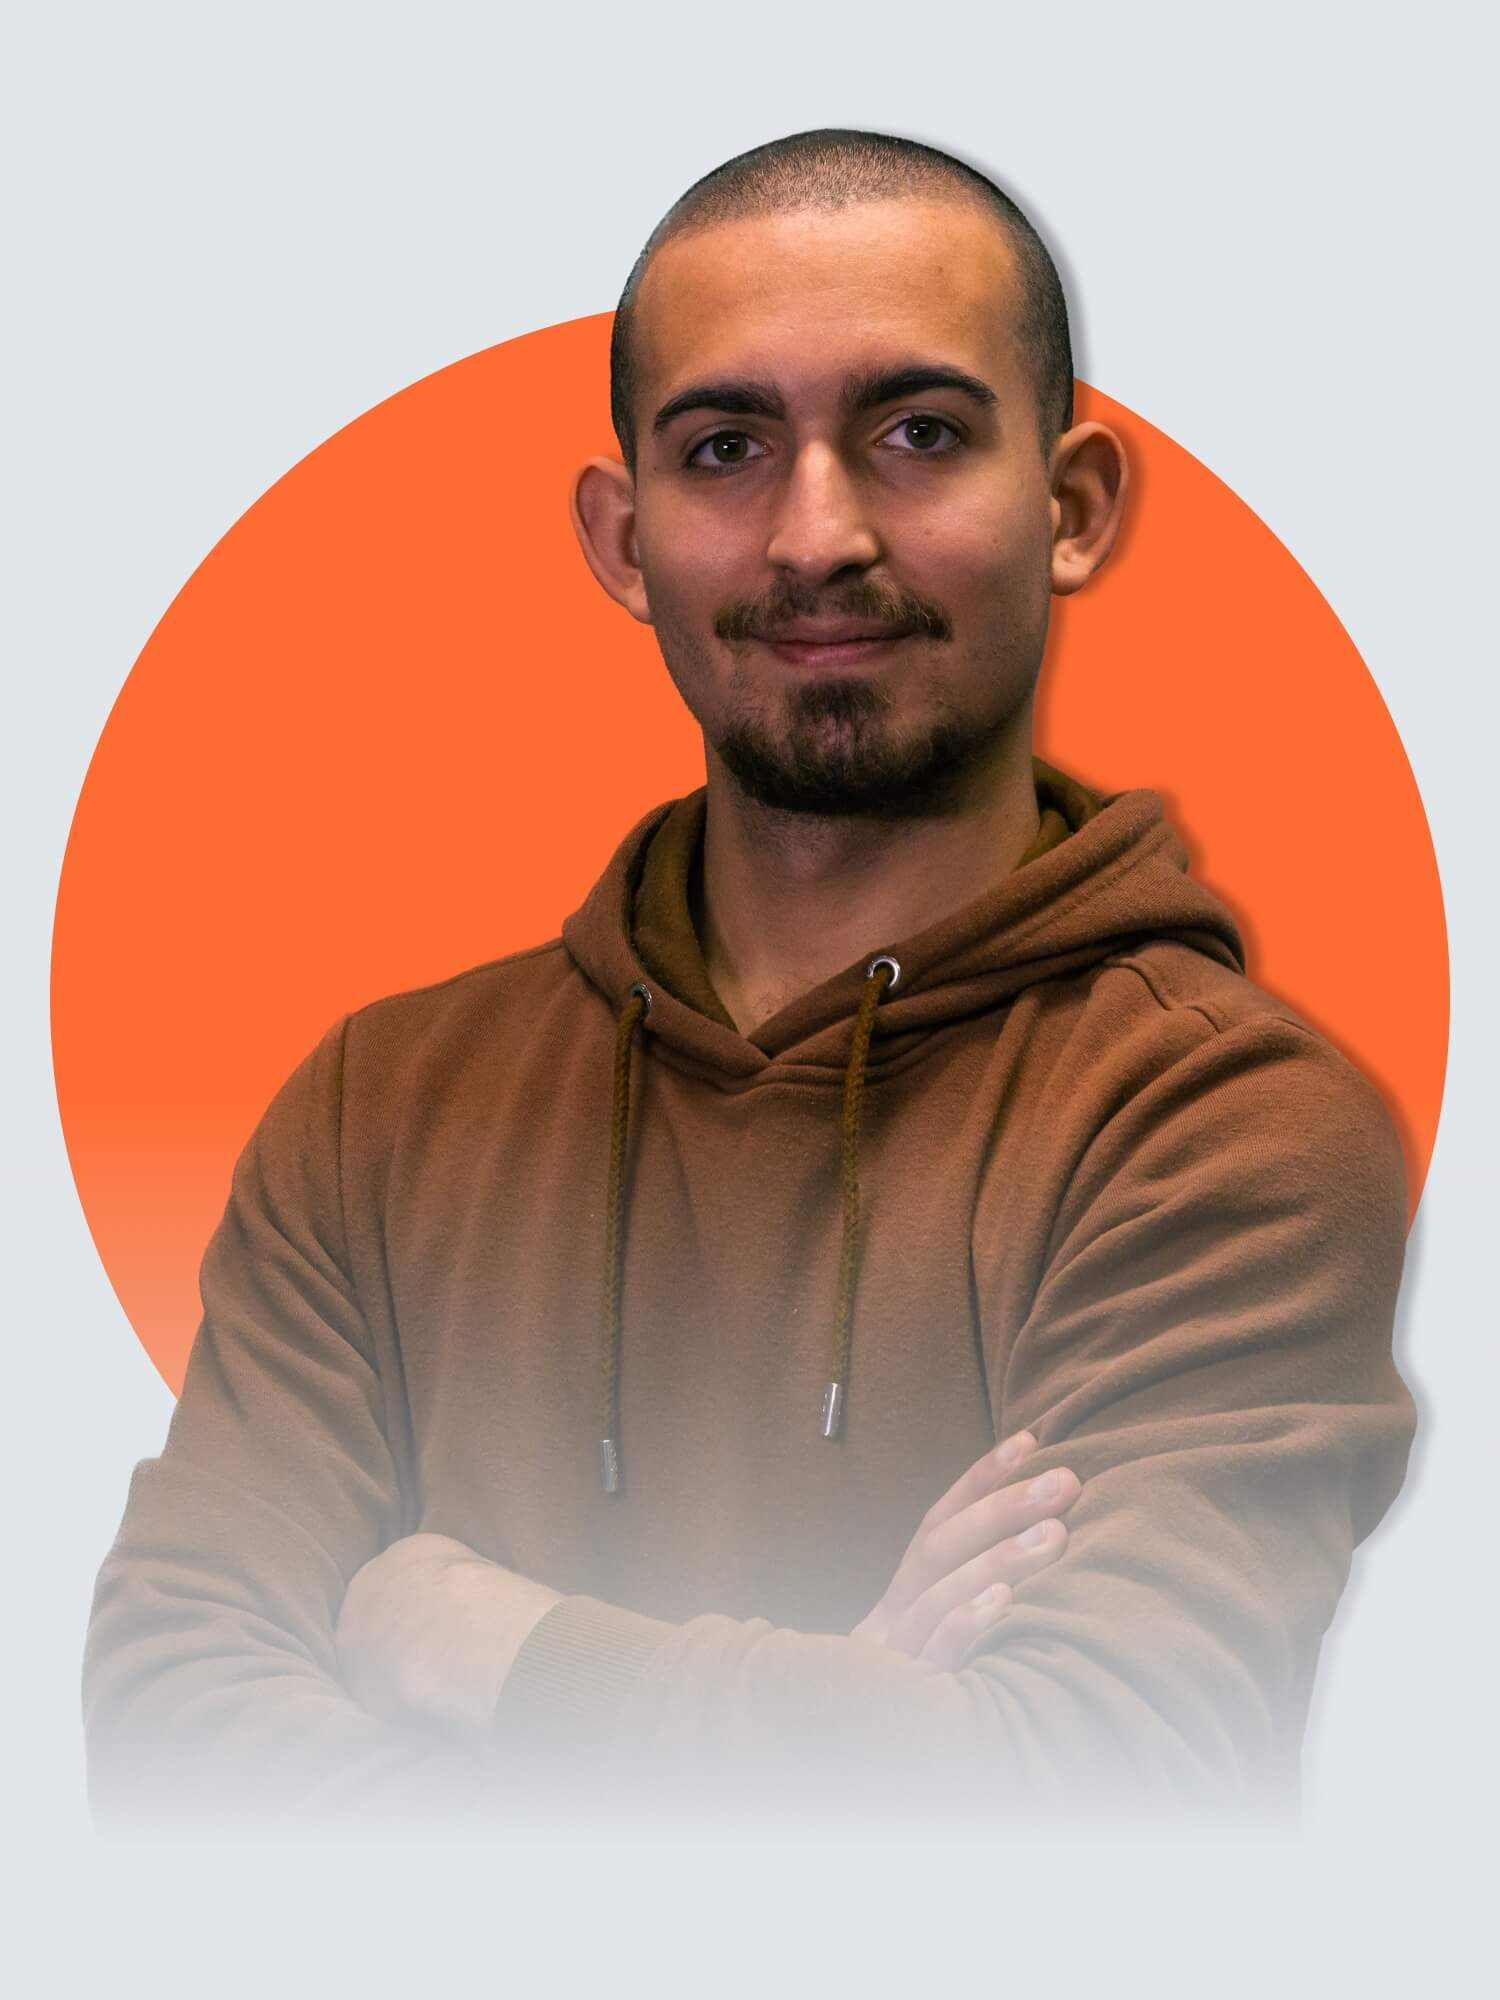
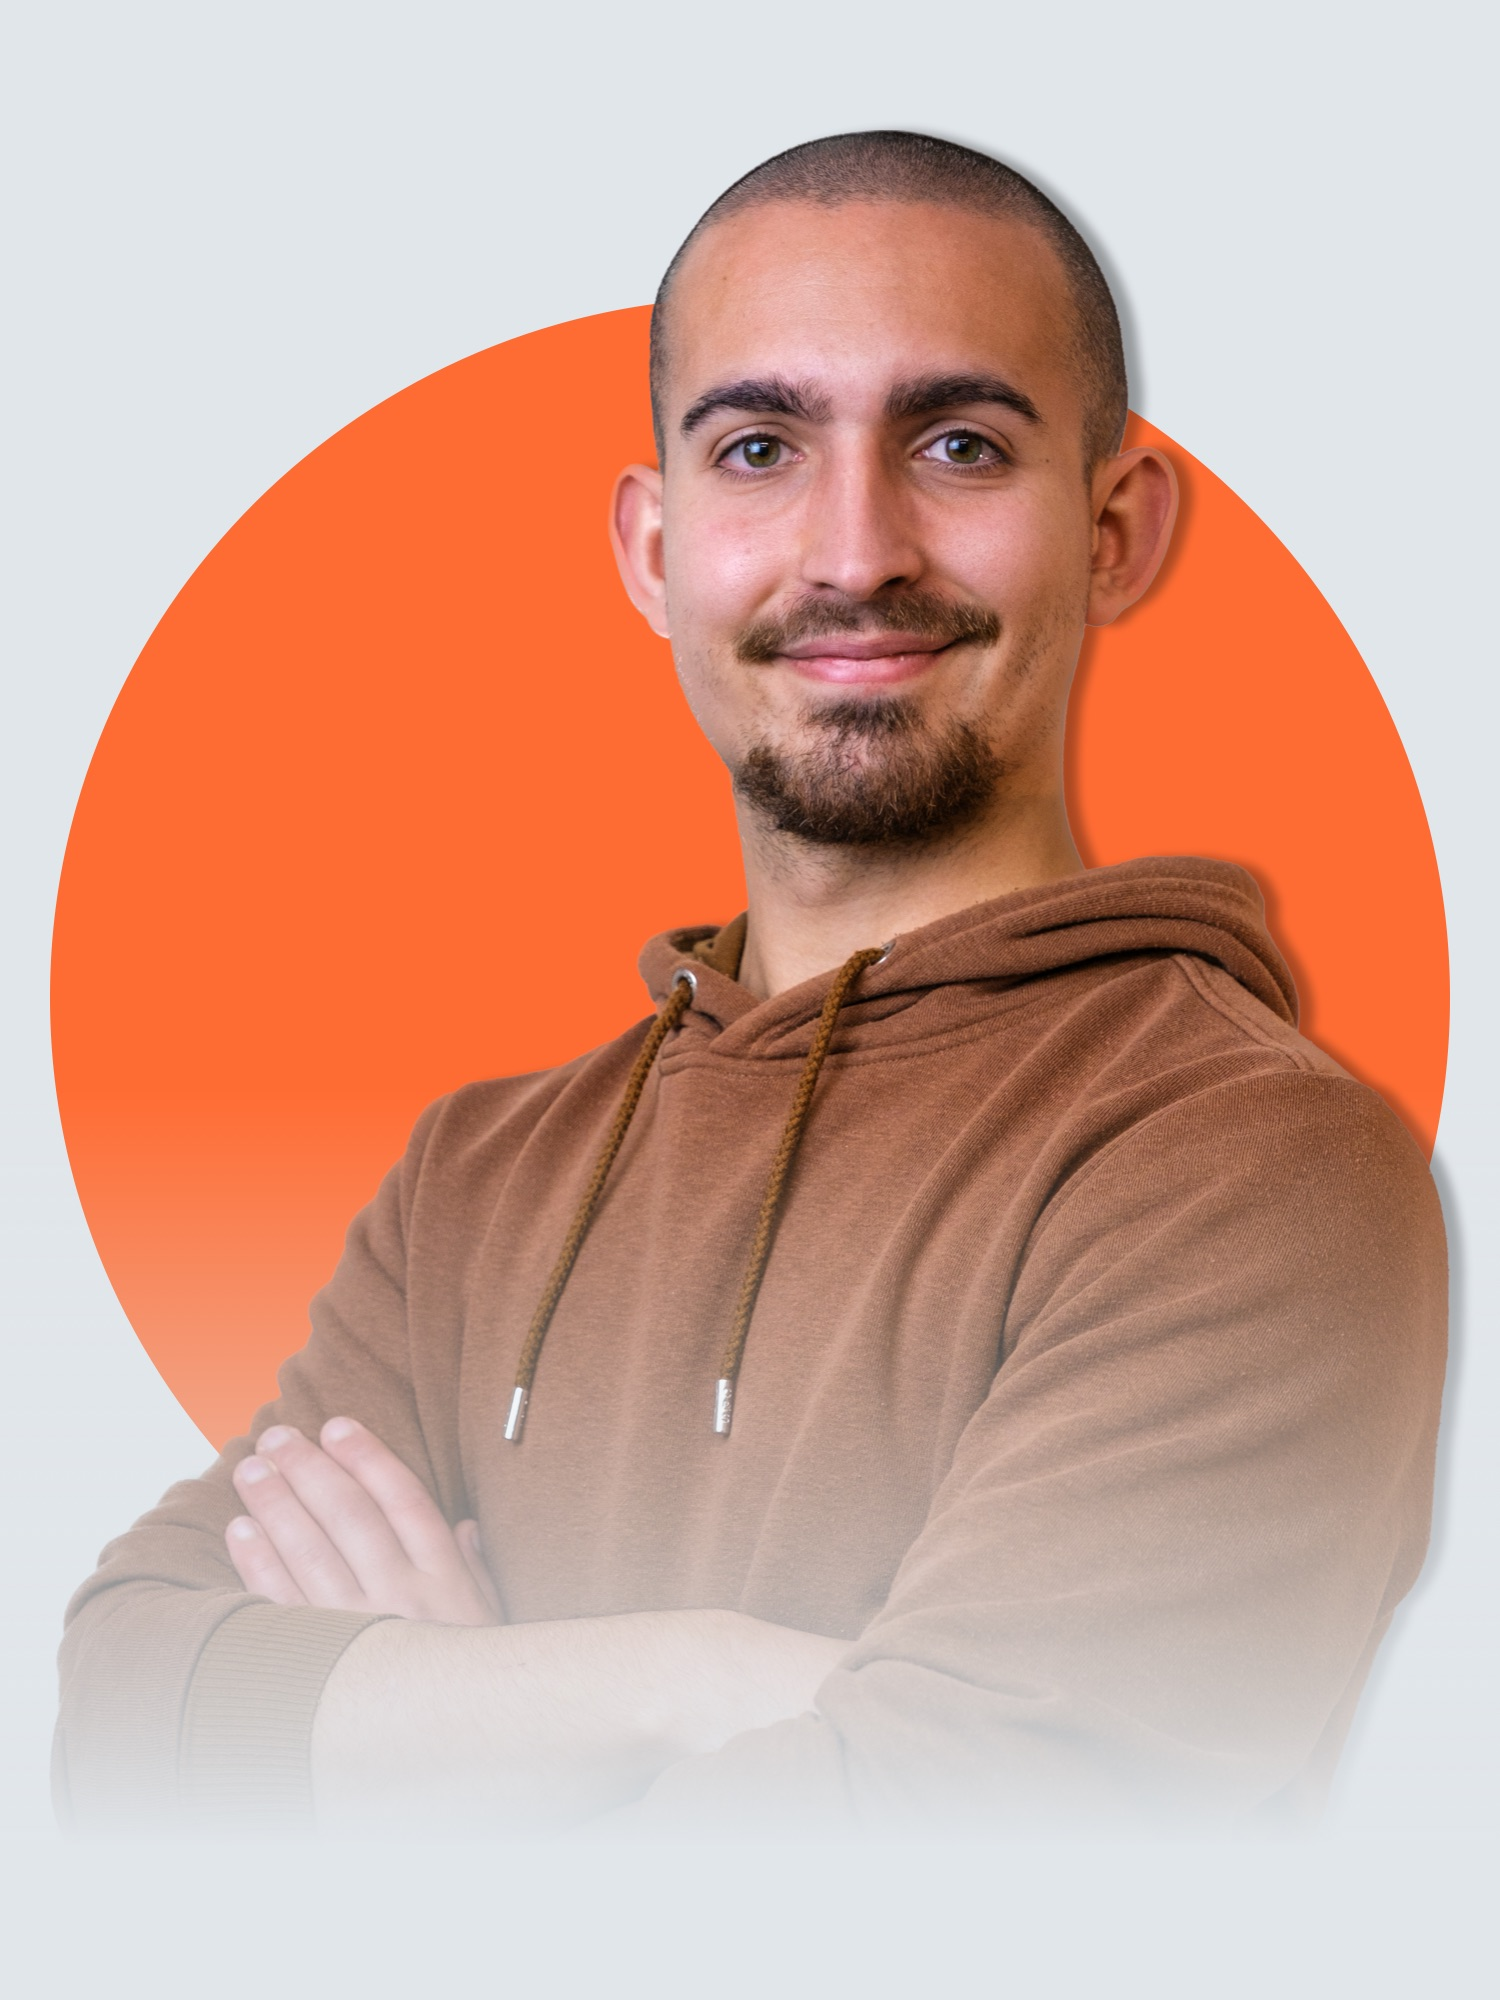
added new photos

diff --git a/about.html b/about.html
@@ -15,8 +15,7 @@
   <link rel="apple-touch-icon" sizes="192x192" href="assets/img/IconIOS.png">
 
   <link type='text/css' rel="stylesheet" href="assets/scss/style.css">
-  <link type='text/css' rel='stylesheet'
-    href='https://cdn.jsdelivr.net/npm/bootstrap-icons@1.9.1/font/bootstrap-icons.css'>
+  <link type='text/css' rel='stylesheet' href='https://cdn.jsdelivr.net/npm/bootstrap-icons@1.9.1/font/bootstrap-icons.css'>
 </head>
 
 <body class="bg-light">
@@ -43,7 +42,7 @@
           <li class="nav-item"><a class="nav-link" href="index.html">Home</a></li>
           <!-- <li class="nav-item"><a class="nav-link" href="index.html#portfolio">Work</a></li> -->
           <li class="nav-item"><a class="nav-link active" aria-current="page" href="about.html">About</a></li>
-          <li class="nav-item"><a class="nav-link" href="blog.html">Blog</a></li>
+          <!-- <li class="nav-item"><a class="nav-link" href="blog.html">Blog</a></li> -->
           <li class="nav-item">
             <a class="nav-link hollow-button border-white" href="mailto:filigheddualfredo@gmail.com" target="_blank">
               Contattami
@@ -79,7 +78,7 @@
         <h2 class="color-accent">Servizi</h2>
 
         <div class="accordion">
-          <h3>Front end developer</h3>
+          <h3>Front end development</h3>
           <div class="plus"><span></span><span></span></div>
         </div>
         <p class="panel">Progetto, sviluppo e testo applicazioni web scalabili.</p>
@@ -120,8 +119,7 @@
           <p>A seguito della pandemia decido di reinventarmi professionalmente e dedicarmi ad una delle mie
             più grandi passioni, la tecnologia. <br>
             Intraprendo così il corso per front end developer di
-            <a href="https://epicode.com/it?utm_source=student&utm_content=filigheddualfredo@gmail.com"
-              target="_blank">Epicode</a>. Ma questo è solo l’inizio, dopo
+            <a href="https://epicode.com/it?utm_source=student&utm_content=filigheddualfredo@gmail.com" target="_blank">Epicode</a>. Ma questo è solo l’inizio, dopo
             tre mesi con Epicode continuo a studiare e ampliare le mie abilità anche nel design, con corsi e video su
             YouTube su canali come <a href="https://www.flux-academy.com/" target="_blank">Flux Academy</a>.
           </p>
@@ -147,7 +145,7 @@
 
       <div class="position-relative">
         <div class="carousel-content active d-flex-md flex-row-reverse-md justify-between-md align-center-md">
-          <div class="bg-accent mb-3 col-6-md" style="aspect-ratio: 4/3; border: 10px solid #ff6c33;"></div>
+          <img src="assets/img/gaming.jpg" alt="" class="responsive-pic mb-3 col-6-md border-main" style="aspect-ratio: 4/3; border: 10px solid #ff6c33;">
           <div class="col-4-md pt-5-md">
             <h3>Giocatore della domenica</h3>
             <p>Che sia nel weekend o poco dopo l'uscita di videogiochi importanti, adoro rilassarmi sul divano a giocare
@@ -156,9 +154,8 @@
             </p>
           </div>
         </div>
-        <div class="carousel-content d-flex-md flex-row-reverse-md justify-between-md align-center-md"
-          style="position: absolute;">
-          <div class="bg-accent mb-3 col-6-md" style="aspect-ratio: 4/3; border: 10px solid #ff6c33;"></div>
+        <div class="carousel-content d-flex-md flex-row-reverse-md justify-between-md align-center-md" style="position: absolute;">
+          <img src="assets/img/diy.jpg" alt="" class="responsive-pic mb-3 col-6-md border-main" style="aspect-ratio: 4/3; border: 10px solid #ff6c33;">
           <div class="col-4-md pt-5-md">
             <h3>Fai per tre</h3>
             <p>Quando sono a casa, che sia per necessità o per puro gusto, libero il mio estro creativo creando mobili e
@@ -166,10 +163,8 @@
             </p>
           </div>
         </div>
-        <div class="carousel-content d-flex-md flex-row-reverse-md justify-between-md align-center-md"
-          style="position: absolute;">
-          <img src="assets/img/travel.jpg" alt="" class="responsive-pic mb-3 col-6-md border-main"
-            style="aspect-ratio: 4/3; border: 10px solid #ff6c33;">
+        <div class="carousel-content d-flex-md flex-row-reverse-md justify-between-md align-center-md" style="position: absolute;">
+          <img src="assets/img/travel.jpg" alt="" class="responsive-pic mb-3 col-6-md border-main" style="aspect-ratio: 4/3; border: 10px solid #ff6c33;">
           <div class="col-4-md pt-5-md">
             <h3>Nomade digitale</h3>
             <p>Che sia in campeggio o nelle capitali del mondo, adoro viaggiare e grazie alla mia professione posso
@@ -185,11 +180,9 @@
     <section class="d-flex flex-column align-center">
       <p class="sub-title-6">Hai bisogno di un sito su misura?</p>
       <p class="sub-title-1 uppercase color-main">Iniziamo</p>
-      <a href="/contacts.html" class="flat-button bg-dark color-light mb-1"
-        style="width: 248px; margin-right: 40px;">Prenota una call
+      <a href="/contacts.html" class="flat-button bg-dark color-light mb-1" style="width: 248px; margin-right: 40px;">Prenota una call
       </a>
-      <a href="mailto:filigheddualfredo@gmail.com" target="_blank" class="hollow-button"
-        style="width: 248px; margin-left: 40px;">Scrivimi una mail
+      <a href="mailto:filigheddualfredo@gmail.com" target="_blank" class="hollow-button" style="width: 248px; margin-left: 40px;">Scrivimi una mail
       </a>
     </section>
   </main>
@@ -205,8 +198,7 @@
           <i class="bi bi-youtube color-accent"></i></a>
       </li>
       <li>
-        <a href="https://www.linkedin.com/in/alfredo-filigheddu" target="_blank"><i
-            class="bi bi-linkedin color-accent"></i></a>
+        <a href="https://www.linkedin.com/in/alfredo-filigheddu" target="_blank"><i class="bi bi-linkedin color-accent"></i></a>
       </li>
       <li>
         <a href="https://www.github.com/Alfrew" target="_blank"><i class="bi bi-github color-accent"></i></a>
@@ -217,8 +209,7 @@
 
     <div class="mx-4">
       <p class="mb-1">&copy; Alfredo Filigheddu</p>
-      <p>Progettato e sviluppato personalmente con <a href="https://www.figma.com" class="color-accent"
-          target="_blank">Figma</a> e
+      <p>Progettato e sviluppato personalmente con <a href="https://www.figma.com" class="color-accent" target="_blank">Figma</a> e
         <a href="https://code.visualstudio.com" class="color-accent" target="_blank">Visual Studio Code</a>
       </p>
     </div>

diff --git a/index.html b/index.html
@@ -15,8 +15,7 @@
   <link rel="apple-touch-icon" sizes="192x192" href="assets/img/IconIOS.png">
 
   <link type='text/css' rel="stylesheet" href="assets/scss/style.css">
-  <link type='text/css' rel='stylesheet'
-    href='https://cdn.jsdelivr.net/npm/bootstrap-icons@1.9.1/font/bootstrap-icons.css'>
+  <link type='text/css' rel='stylesheet' href='https://cdn.jsdelivr.net/npm/bootstrap-icons@1.9.1/font/bootstrap-icons.css'>
 </head>
 
 <body class="bg-light">
@@ -43,10 +42,9 @@
           <li class="nav-item"><a class="nav-link active" aria-current="page" href="index.html">Home</a></li>
           <!-- <li class="nav-item"><a class="nav-link" href="index.html#portfolio">Work</a></li> -->
           <li class="nav-item"><a class="nav-link" href="about.html">About</a></li>
-          <li class="nav-item"><a class="nav-link" href="blog.html">Blog</a></li>
+          <!-- <li class="nav-item"><a class="nav-link" href="blog.html">Blog</a></li> -->
           <li class="nav-item">
-            <a class="nav-link hollow-button border-white" href="mailto:filigheddualfredo@gmail.com"
-              target="_blank">Contattami</a>
+            <a class="nav-link hollow-button border-white" href="mailto:filigheddualfredo@gmail.com" target="_blank">Contattami</a>
           </li>
         </ul>
       </div>
@@ -66,8 +64,7 @@
         <h1 class="color-main sub-title-4 sub-title-3-lg">Valorizzo le imprese attraverso il web</h1>
         <p class="sub-title-6 col-10">Come? Creando dei siti su misura, che attirino clienti e che mostrino la
           personalità della tua impresa</p>
-        <a href="mailto:filigheddualfredo@gmail.com" target="_blank"
-          class="flat-button bg-main color-white mt-5 col-5-lg">Contattami</a>
+        <a href="mailto:filigheddualfredo@gmail.com" target="_blank" class="flat-button bg-main color-white mt-5 col-5-lg">Contattami</a>
       </div>
     </section>
 
@@ -98,8 +95,7 @@
           Questo non è possibile quando si utilizzano tecnologie arretrate o siti prefabbricati.
         </p>
 
-        <div class="text-center pt-5"><a href="mailto:filigheddualfredo@gmail.com" target="_blank"
-            class="flat-button bg-main color-white col-8-lg">Contattami</a>
+        <div class="text-center pt-5"><a href="mailto:filigheddualfredo@gmail.com" target="_blank" class="flat-button bg-main color-white col-8-lg">Contattami</a>
         </div>
       </div>
     </section>
@@ -143,13 +139,12 @@
             nel quale parlo di produttività e crescita personale.
           </p>
         </div>
-        <div class="text-center text-left-lg"><a href="about.html"
-            class="flat-button bg-main color-white col-7-lg">About</a></div>
+        <div class="text-center text-left-lg"><a href="about.html" class="flat-button bg-main color-white col-7-lg">About</a></div>
       </div>
     </section>
 
     <!-- Blog di educazione -->
-    <section class="bg-dark color-light">
+    <!-- <section class="bg-dark color-light">
       <div class="text-center">
         <p class="uppercase color-main sub-title-6">Blog</p>
         <h3 class="mb-2">Aggiornarsi in toto</h3>
@@ -186,7 +181,7 @@
         <a href="blog.html" class="flat-button bg-main color-white col-4-lg">Vedi tutti gli articoli</a>
       </div>
       </div>
-    </section>
+    </section> -->
 
     <!-- Futura sezione con recensioni -->
     <!-- Futura sezione con recensioni -->
@@ -234,11 +229,9 @@
     <div class="d-flex flex-column align-center py-5 my-5">
       <p class="sub-title-6">Hai bisogno di un sito su misura?</p>
       <p class="sub-title-1 uppercase color-main">Iniziamo</p>
-      <a href="/contacts.html" class="flat-button bg-dark color-light mb-1"
-        style="width: 248px; margin-right: 40px;">Prenota una call
+      <a href="/contacts.html" class="flat-button bg-dark color-light mb-1" style="width: 248px; margin-right: 40px;">Prenota una call
       </a>
-      <a href="mailto:filigheddualfredo@gmail.com" target="_blank" class="hollow-button"
-        style="width: 248px; margin-left: 40px;">Scrivimi una mail
+      <a href="mailto:filigheddualfredo@gmail.com" target="_blank" class="hollow-button" style="width: 248px; margin-left: 40px;">Scrivimi una mail
       </a>
     </div>
   </main>
@@ -254,8 +247,7 @@
           <i class="bi bi-youtube color-accent"></i></a>
       </li>
       <li>
-        <a href="https://www.linkedin.com/in/alfredo-filigheddu" target="_blank"><i
-            class="bi bi-linkedin color-accent"></i></a>
+        <a href="https://www.linkedin.com/in/alfredo-filigheddu" target="_blank"><i class="bi bi-linkedin color-accent"></i></a>
       </li>
       <li>
         <a href="https://www.github.com/Alfrew" target="_blank"><i class="bi bi-github color-accent"></i></a>
@@ -266,8 +258,7 @@
 
     <div class="mx-4">
       <p class="mb-1">&copy; Alfredo Filigheddu</p>
-      <p>Progettato e sviluppato personalmente con <a href="https://www.figma.com" class="color-accent"
-          target="_blank">Figma</a> e
+      <p>Progettato e sviluppato personalmente con <a href="https://www.figma.com" class="color-accent" target="_blank">Figma</a> e
         <a href="https://code.visualstudio.com" class="color-accent" target="_blank">Visual Studio Code</a>
       </p>
     </div>
